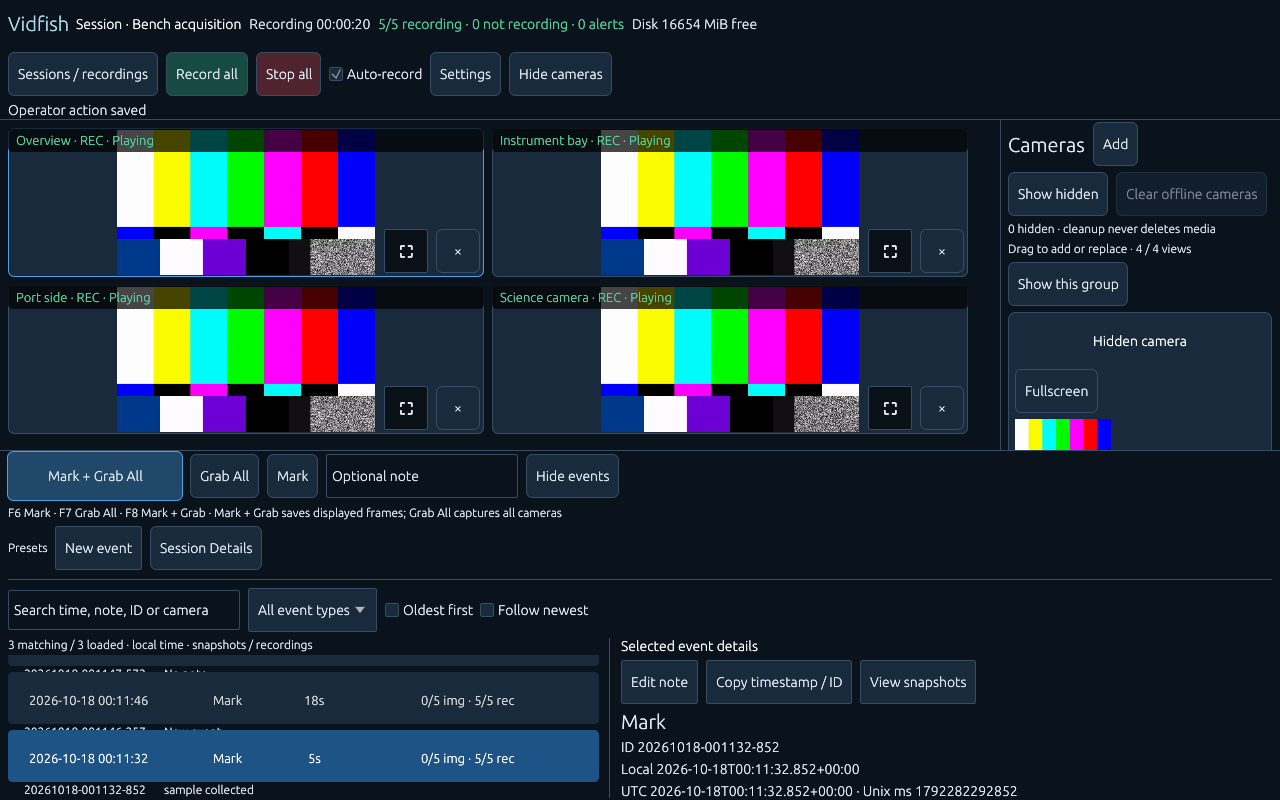
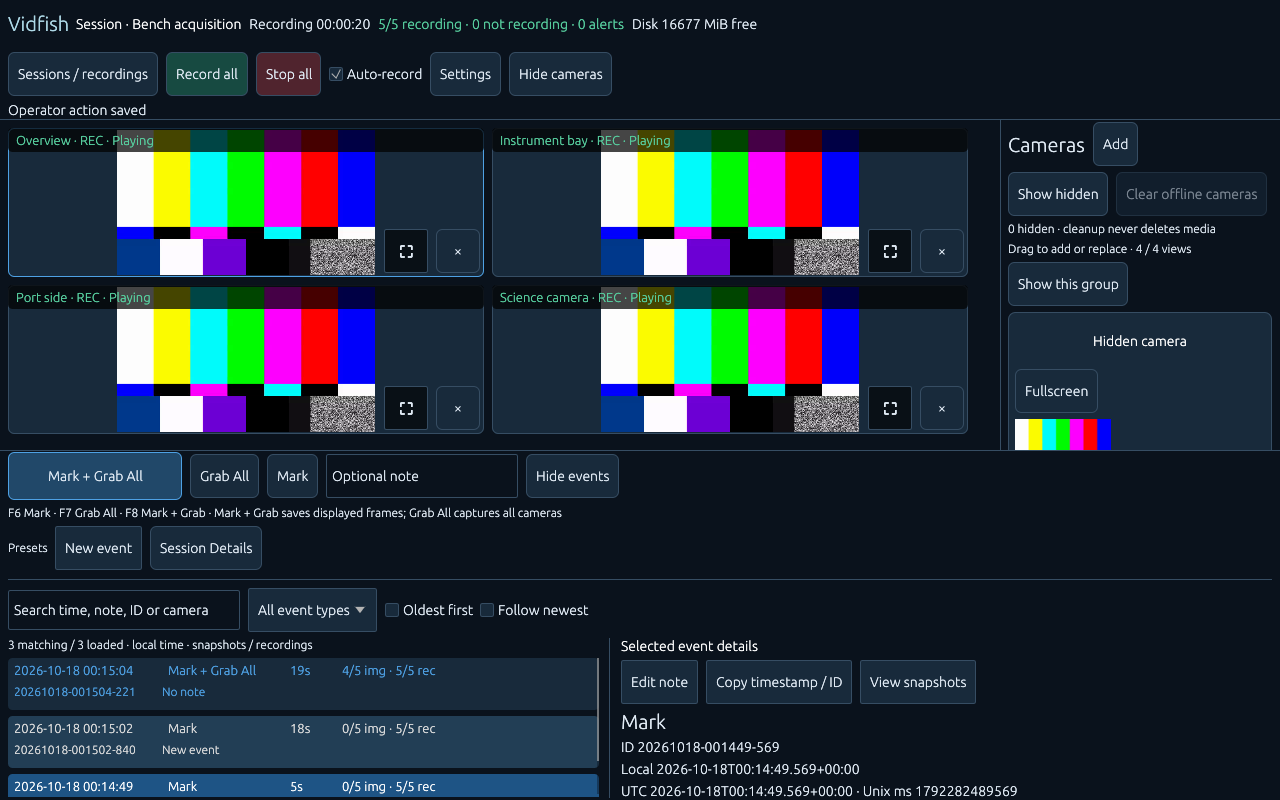
fix: keep both event row lines within scroll and touch bounds

diff --git a/crates/vidfish-app/src/desktop/event_browser.rs b/crates/vidfish-app/src/desktop/event_browser.rs
@@ -238,63 +238,64 @@ impl Desktop {
                                 } else {
                                     egui::Color32::LIGHT_GRAY
                                 };
-                                let mut row = ui.new_child(
-                                    egui::UiBuilder::new()
-                                        .max_rect(rect.shrink(6.0))
-                                        .layout(egui::Layout::top_down(egui::Align::Min)),
-                                );
-                                row.spacing_mut().item_spacing.y = 2.0;
-                                row.horizontal(|ui| {
-                                    ui.spacing_mut().item_spacing.x = 4.0;
-                                    let font = if compact { 12.0 } else { 13.0 };
-                                    let field = |ui: &mut egui::Ui, w: f32, text: String| {
-                                        ui.add_sized(
-                                            [w, 16.0],
-                                            egui::Label::new(
-                                                egui::RichText::new(text).size(font).color(color),
-                                            )
-                                            .truncate(),
-                                        );
-                                    };
-                                    field(ui, if compact { 92.0 } else { 150.0 }, time);
-                                    field(
-                                        ui,
-                                        if compact { 92.0 } else { 118.0 },
-                                        event.kind.clone(),
+                                let mut cell = |x: f32, y: f32, w: f32, text: String, font: f32| {
+                                    let cell_rect = egui::Rect::from_min_size(
+                                        rect.min + egui::vec2(x, y),
+                                        egui::vec2(w.max(1.0), 18.0),
                                     );
-                                    field(
-                                        ui,
-                                        if compact { 30.0 } else { 48.0 },
-                                        format!("{}s", event.elapsed_seconds),
+                                    let clip = cell_rect.intersect(rect).intersect(ui.clip_rect());
+                                    let mut child = ui.new_child(
+                                        egui::UiBuilder::new()
+                                            .max_rect(cell_rect)
+                                            .layout(egui::Layout::top_down(egui::Align::Min)),
                                     );
-                                    field(
-                                        ui,
-                                        ui.available_width().max(1.0),
-                                        format!(
-                                            "{captures}/{} img · {recording}/{} rec",
-                                            event.captures.len(),
-                                            event.captures.len()
-                                        ),
-                                    );
-                                });
-                                row.horizontal(|ui| {
-                                    ui.add_sized(
-                                        [142.0, 16.0],
-                                        egui::Label::new(egui::RichText::new(public_id).small())
-                                            .truncate(),
-                                    );
-                                    ui.add(
+                                    child.set_clip_rect(clip);
+                                    child.add(
                                         egui::Label::new(
-                                            egui::RichText::new(if note.is_empty() {
-                                                "No note"
-                                            } else {
-                                                &note
-                                            })
-                                            .small(),
+                                            egui::RichText::new(text).size(font).color(color),
                                         )
                                         .truncate(),
                                     );
-                                });
+                                };
+                                let font = if compact { 12.0 } else { 13.0 };
+                                let (date_width, kind_width, elapsed_width) = if compact {
+                                    (92.0, 92.0, 30.0)
+                                } else {
+                                    (150.0, 118.0, 48.0)
+                                };
+                                cell(6.0, 5.0, date_width, time, font);
+                                cell(10.0 + date_width, 5.0, kind_width, event.kind.clone(), font);
+                                cell(
+                                    14.0 + date_width + kind_width,
+                                    5.0,
+                                    elapsed_width,
+                                    format!("{}s", event.elapsed_seconds),
+                                    font,
+                                );
+                                let x = 18.0 + date_width + kind_width + elapsed_width;
+                                cell(
+                                    x,
+                                    5.0,
+                                    rect.width() - x - 6.0,
+                                    format!(
+                                        "{captures}/{} img · {recording}/{} rec",
+                                        event.captures.len(),
+                                        event.captures.len()
+                                    ),
+                                    font,
+                                );
+                                cell(6.0, 27.0, 142.0, public_id, 12.0);
+                                cell(
+                                    154.0,
+                                    27.0,
+                                    rect.width() - 160.0,
+                                    if note.is_empty() {
+                                        "No note".into()
+                                    } else {
+                                        note
+                                    },
+                                    12.0,
+                                );
                                 super::probe::button(ui, &format!("Event {}", event.id), &response);
                                 if response.clicked() || response.double_clicked() {
                                     browser.selected = Some(event.id.clone());

diff --git a/scripts/operator-refresh-smoke.py b/scripts/operator-refresh-smoke.py
@@ -52,6 +52,10 @@ with tempfile.TemporaryDirectory(prefix='vidfish-events-') as folder:
   capture=next(e for e in events() if e['kind']=='Mark + Grab All')
   assert sum(c['image'] is not None for c in capture['captures'])==4
   assert all('Displayed frame' in c['result'] for c in capture['captures'] if c['image'])
+  # Explicit user scrolling to newest keeps the documentation capture readable.
+  buttons=[b for b in state().get('buttons',[]) if b[0].startswith('Event ')]
+  if buttons:
+   rect=buttons[-1][1];mouse.scroll(-30,int((rect[0]+rect[2])/2),min(int((rect[1]+rect[3])/2),int(state()['viewport'][1])-25))
   time.sleep(1)
   if args.screenshot: ImageGrab.grab().save(args.screenshot)
   click('Search events');mouse.type_note('sample');time.sleep(1)
